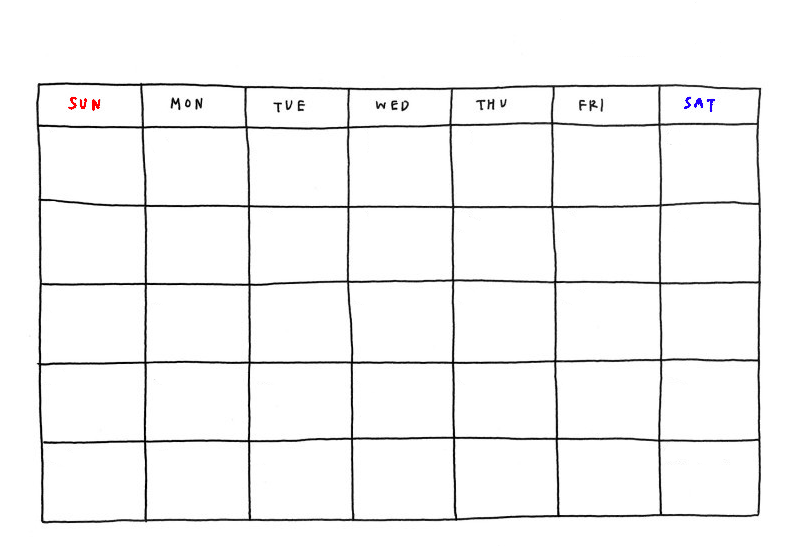
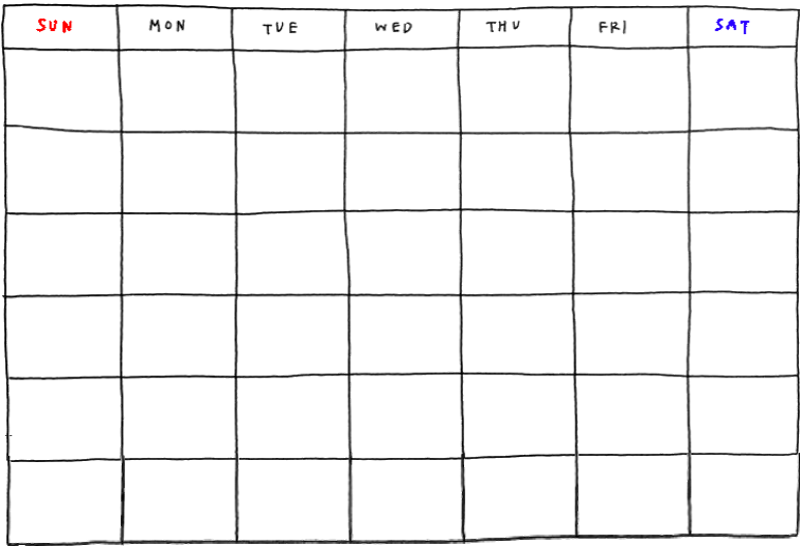
캘린더 css 구현

Changed region(s): [[0.0, 0.0, 1.0, 1.0]]

diff --git a/src/components/Calendar.jsx b/src/components/Calendar.jsx
@@ -3,6 +3,10 @@ import styled from "styled-components";
 import CalendarItem from "./CalendarItem";
 import { format, addMonths, subMonths } from "date-fns";
 import useCalendar from "../hooks/useCalendar";
+import img from "../style/img/calender.png";
+import Rarrow from "../style/img/arrowright.png";
+import Larrow from "../style/img/arrowleft.png";
+
 const Calendar = () => {
   const [currentMonth, setCurrentMonth] = useState(new Date());
   const dates = ["Sun", "Mon", "Thu", "Wed", "Thrs", "Fri", "Sat"];
@@ -23,32 +27,41 @@ const Calendar = () => {
     <CalendarWrapper>
       <Header>
         <div>
-          <span>
+          <CalendarHeader>
             <span className="text month"> {format(currentMonth, "yyyy")} </span>
             {format(currentMonth, "M")}월
-          </span>
+          </CalendarHeader>
         </div>
         <div>
-          <HeaderArrow onClick={prevMonth}>⬅</HeaderArrow>
-          <HeaderArrow onClick={nextMonth}>➡</HeaderArrow>
+          <HeaderArrow src={Larrow} onClick={prevMonth}></HeaderArrow>
+          <HeaderArrow src={Rarrow} onClick={nextMonth}></HeaderArrow>
         </div>
       </Header>
       <Days>
-        {dates.map((date, idx) => (
+        {/* {dates.map((date, idx) => (
           <div key={idx}>{date}</div>
-        ))}
+        ))} */}
       </Days>
       <CalendarItem></CalendarItem>
+      <CarendarImg src={img}></CarendarImg>
     </CalendarWrapper>
   );
 };
 
 export default Calendar;
 
+const CarendarImg = styled.img`
+  position: absolute;
+  margin: 25px 30px 0 0;
+  width: 664px;
+  height: 380px;
+  z-index: -100;
+`;
+
 const CalendarWrapper = styled.div`
   display: flex;
   flex-direction: column;
-  width: 80%;
+  width: 664px;
   max-height: 400px;
   gap: 15px;
 `;
@@ -56,26 +69,35 @@ const CalendarWrapper = styled.div`
 const Header = styled.div`
   display: flex;
   width: 100%;
-  height: 10%;
+  height: 20px;
   justify-content: space-between;
   align-items: center;
 `;
 
-const HeaderArrow = styled.div`
+const CalendarHeader = styled.span`
+  filter: blur(0.3px);
+  margin-left: 10px;
+  font-size: 20px;
+`;
+
+const HeaderArrow = styled.img`
   display: inline-flex;
   cursor: pointer;
   margin: 0 5px;
   border-radius: 3px;
-
+  width: 30px;
+  height: 30px;
+  transition: width 0.2s ease-in-out, height 0.2s ease-in-out;
   &:hover {
-    background-color: gray;
+    width: 40px;
+    height: 40px;
   }
 `;
 
 const Days = styled.div`
   display: flex;
   width: 90%;
-  height: 5%;
+  height: 15px;
   margin: 0 5%;
   justify-content: space-between;
   align-items: center;

diff --git a/src/components/CalendarItem.jsx b/src/components/CalendarItem.jsx
@@ -29,7 +29,14 @@ const CalendarItem = () => {
       {calendars.map((days, inx) => (
         <CalendarRow key={inx}>
           {days.map((date, idx) => (
-            <CalendarCell onClick={onDateClick} key={date.id} value={date.date}>
+            <CalendarCell
+              onClick={onDateClick}
+              key={date.id}
+              value={date.date}
+              $isSun={date.isSun ? "true" : ""}
+              $isSat={date.isSat ? "true" : ""}
+              $isSameMonth={date.isSameMonth ? "true" : ""}
+            >
               {date.date}
             </CalendarCell>
           ))}
@@ -43,7 +50,7 @@ const CalendarItem = () => {
 export default CalendarItem;
 
 const CalendarBody = styled.div`
-  border: 1px solid black;
+  /* border: 1px solid black; */
 `;
 
 const CalendarRow = styled.div`
@@ -55,6 +62,17 @@ const CalendarCell = styled.div`
   justify-content: center;
   align-items: center;
   width: 15%;
-  height: 63px;
-  border: 1px solid #ccc;
+  height: 56px;
+  font-size: 24px;
+  filter: blur(0.5px);
+  transform: skewX(-5deg);
+  /* border: 1px solid #ccc; */
+  color: ${(props) =>
+    props.$isSun
+      ? `rgba(255, 0, 0, ${props.$isSameMonth ? 1 : 0.3})`
+      : props.$isSat
+      ? `rgba(0, 0, 255, ${props.$isSameMonth ? 1 : 0.3})`
+      : props.$isSameMonth
+      ? "black"
+      : "rgba(0, 0, 0, 0.3)"};
 `;

diff --git a/src/hooks/useCalendar.js b/src/hooks/useCalendar.js
@@ -5,10 +5,10 @@ import {
   endOfWeek,
   startOfMonth,
   endOfMonth,
+  isSameMonth,
 } from "date-fns";
 import { useDispatch } from "react-redux";
-import {setCalendar} from "../redux/modules/calendar"
-
+import { setCalendar } from "../redux/modules/calendar";
 
 const useCalendar = (currentMonth) => {
   const monthStart = startOfMonth(currentMonth);
@@ -18,24 +18,33 @@ const useCalendar = (currentMonth) => {
   const dispatch = useDispatch();
 
   const rows = [];
-  let days = [];
   let day = startDate;
-  
-  while (day <= endDate) {
+
+  while (rows.length < 6) {
+    const week = [];
+
     for (let i = 0; i < 7; i++) {
       const date = format(day, "d");
       const id = format(day, "yyyy-MM-dd");
-      
-      days.push({
+      const isSun = day.getDay() === 0;
+      const isSat = day.getDay() === 6;
+      const isSameMonthValue = isSameMonth(day, currentMonth);
+
+      week.push({
         id,
         date,
-      })
+        isSun,
+        isSat,
+        isSameMonth: isSameMonthValue,
+      });
+
       day = addDays(day, 1);
     }
-    rows.push(days)
-    days = [];
+
+    rows.push(week);
   }
-  dispatch(setCalendar(rows))
+
+  dispatch(setCalendar(rows));
 };
 
 export default useCalendar;

diff --git a/src/components/ListItem.jsx b/src/components/ListItem.jsx
@@ -37,11 +37,13 @@ const ListItmeBox = styled.div`
   margin: 0 auto;
   text-align: center;
   border-radius: 5px;
-  font-size: 16px;
-  transition: font-size 0.5s ease-in-out, background-color 0.5s ease-in-out;
+  font-size: 20px;
+  filter: blur(0.5px);
+  transform: skewX(-5deg);
+  transition: font-size 0.2s ease-in-out, background-color 0.2s ease-in-out;
   &:hover {
     cursor: pointer;
-    font-size: 18px;
+    font-size: 23px;
     background-color: #dad8d8;
   }
 `;

diff --git a/src/components/List.jsx b/src/components/List.jsx
@@ -15,9 +15,11 @@ const ListWrapper = styled.div`
   display: flex;
   flex-direction: column;
   justify-content: center;
-  border: 1px solid black;
+  /* border: 1px solid black; */
   width: 20%;
-  max-height: 300px;
+  margin-top: 60px;
+  margin-left: 40px;
+  max-height: 310px;
   overflow: auto;
   &::-webkit-scrollbar {
     display: none;

diff --git a/src/pages/Home.jsx b/src/pages/Home.jsx
@@ -14,7 +14,7 @@ const Home = () => {
 export default Home;
 
 const Div = styled.div`
-  width: 90%;
+  width: 880px;
   margin: 10px auto;
   display: flex;
 `;
